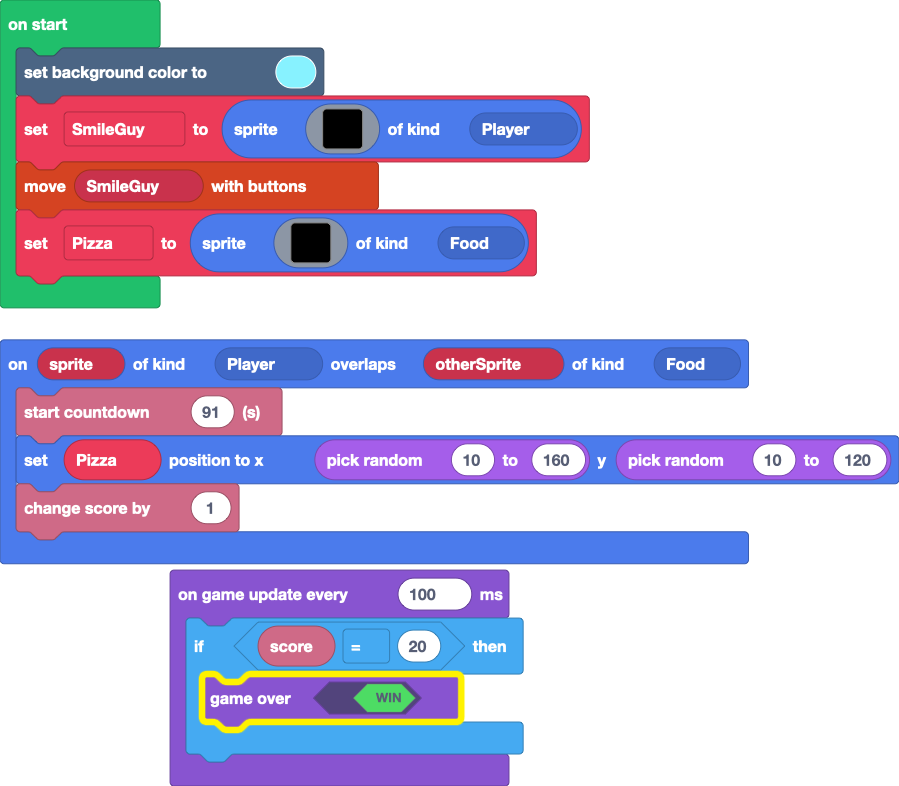
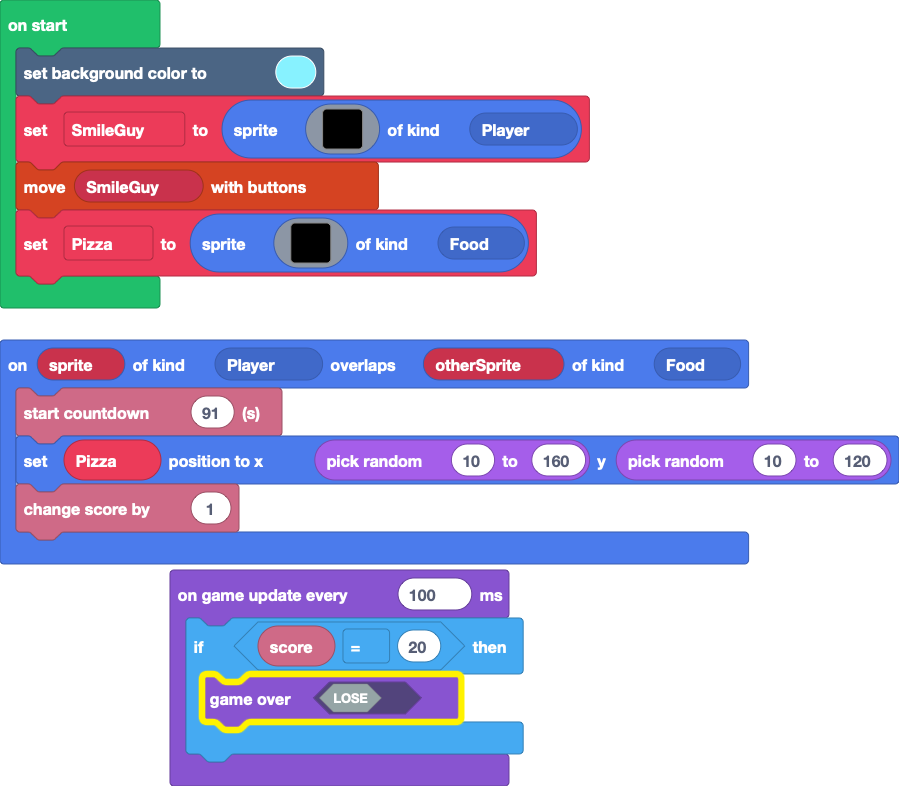
Update main.blocks, main.ts

diff --git a/main.ts b/main.ts
@@ -10,6 +10,6 @@ controller.moveSprite(SmileGuy)
 Pizza = sprites.create(assets.image`Pizza`, SpriteKind.Food)
 game.onUpdateInterval(100, function () {
     if (info.score() == 20) {
-        game.over(true)
+        game.over(false)
     }
 })
